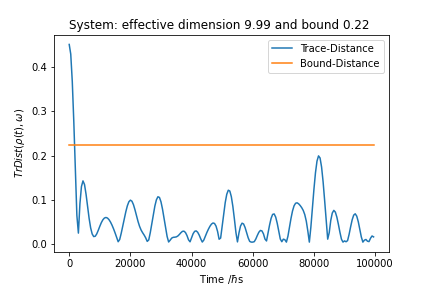
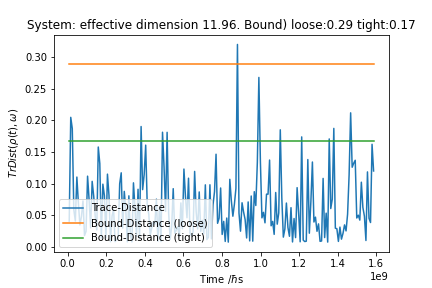
Made a few test edits

diff --git a/QuantumLib.py b/QuantumLib.py
@@ -2,7 +2,7 @@ import matplotlib as mpl
 mpl.use('Agg')
 import matplotlib.pyplot as plt
 
-from numpy import linspace, exp, sqrt
+from numpy import linspace, exp, sqrt, dot
 import ray
 from qutip import Qobj, sigmax, sigmay, sigmaz, identity, tensor
 from qutip.metrics import tracedist
@@ -11,7 +11,7 @@ from qutip.random_objects import rand_unitary_haar
 from scipy.sparse import csr_matrix
 
 from itertools import chain, product
-
+from time import time
 sigma = [sigmax(),sigmay(),sigmaz()]
 
 def Heisenberg1dRingGen(Jx, Jy, Jz, N):
@@ -197,13 +197,20 @@ def simulate(energys, eigstates, coef, t_start, t_end, steps, ret_func=lambda x:
     
 def equilibration_analyser_p(energys, eigstates, init_state, start, stop, steps, name, trace=[0], _proc=4):
     
+    start =time()
     coef = [init_state.overlap(state) for state in eigstates]
 
     n= len(init_state.dims[0])
     subsys_trace = trace
     bath_trace = [ dim for dim in range(n) if dim not in subsys_trace]
+    
+    print("Basics")
+    print(time()-start)
                                
     equilibrated_dens_op = get_equilibrated_dens_op_P(eigstates, coef, n, proc=_proc)
+    
+    print("EqDensOp")
+    print(time()-start)
     
     effective_dimension_sys = eff_dim(equilibrated_dens_op)
     effective_dimension_bath = eff_dim(equilibrated_dens_op.ptrace(bath_trace))
@@ -211,11 +218,20 @@ def equilibration_analyser_p(energys, eigstates, init_state, start, stop, steps,
     
     equilibrated_dens_op = equilibrated_dens_op.ptrace(subsys_trace)
     
+    print("Tracing")
+    print(time()-start)
+    
     bound_loose = 0.5*sqrt((2**len(subsys_trace))**2/effective_dimension_sys)
     bound_tight = 0.5*sqrt(2**len(subsys_trace)/effective_dimension_bath)
 
+    print("Bounds")
+    print(time()-start)
+    
     trace_dist_compare = lambda state: tracedist(equilibrated_dens_op, state.ptrace(trace))
     trace_distances = simulate(energys, eigstates, coef, start, stop, steps, ret_func=trace_dist_compare, proc=_proc)
+    
+    print("Simulation")
+    print(time()-start)
     
     times = [start+step*(stop-start)/steps for step in range(steps)]
     
@@ -225,11 +241,22 @@ def equilibration_analyser_p(energys, eigstates, init_state, start, stop, steps,
     fig = plt.figure()
     ax = fig.add_subplot(1, 1, 1)
     ax.plot(times, trace_distances, label="Trace-Distance")
+    print("Plot1")
+    print(time()-start)
+    
     ax.plot(times, bound_line_loose, label="Bound-Distance (loose)")
     ax.plot(times, bound_line_tight, label="Bound-Distance (tight)")
+    print("Plot2")
+    print(time()-start)
     plt.title(f"System: effective dimension {effective_dimension_sys:.2f}. Bound) loose:{bound_loose:.2f} tight:{bound_tight:.2f}")
     ax.set_xlabel(r"Time /$\hbar$s")
     ax.set_ylabel(r"$TrDist(\rho(t),\omega$)")
     plt.legend()
     plt.savefig(name)
+    print("Finished")
+    print(time()-start)
     
+    
+    
+    
+

diff --git a/Equilibration.py b/Equilibration.py
@@ -5,6 +5,8 @@ from os import environ
 from time import time
 from qutip import tensor
 from qutip.states import basis
+from numpy.linalg import eig as eigenstates
+from numpy import dot 
 
 
 n = int(argv[1])
@@ -56,7 +58,7 @@ energys3, states3 = H3.eigenstates()
 
 
 
-equilibration_analyser_p(energys1, states1, state1, 0, 1e5, 200, "H1", _proc=processors)
+equilibration_analyser_p2(energys1, states1, state1, 0, 1e5, 200, "H1-newvers" , _proc=processors)
 equilibration_analyser_p(energys2, states2, state1, 0, 1e5, 200, "H2", _proc=processors)
 equilibration_analyser_p(energys3, states3, state1, 0, 1e5, 200, "H3", _proc=processors)
 
